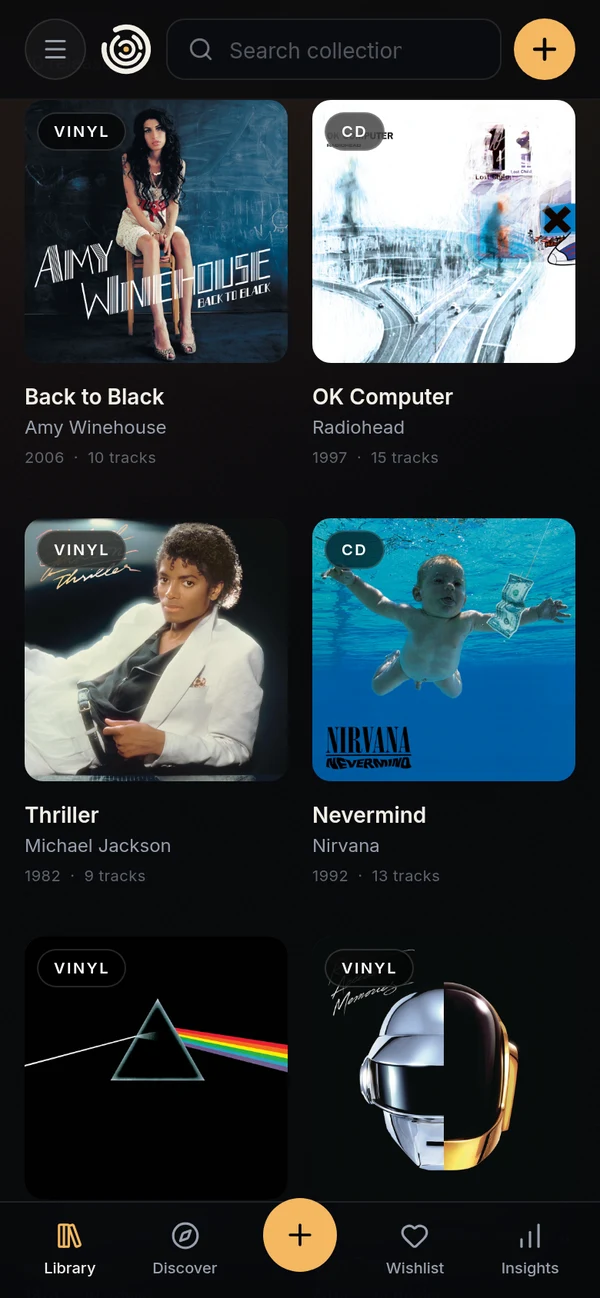
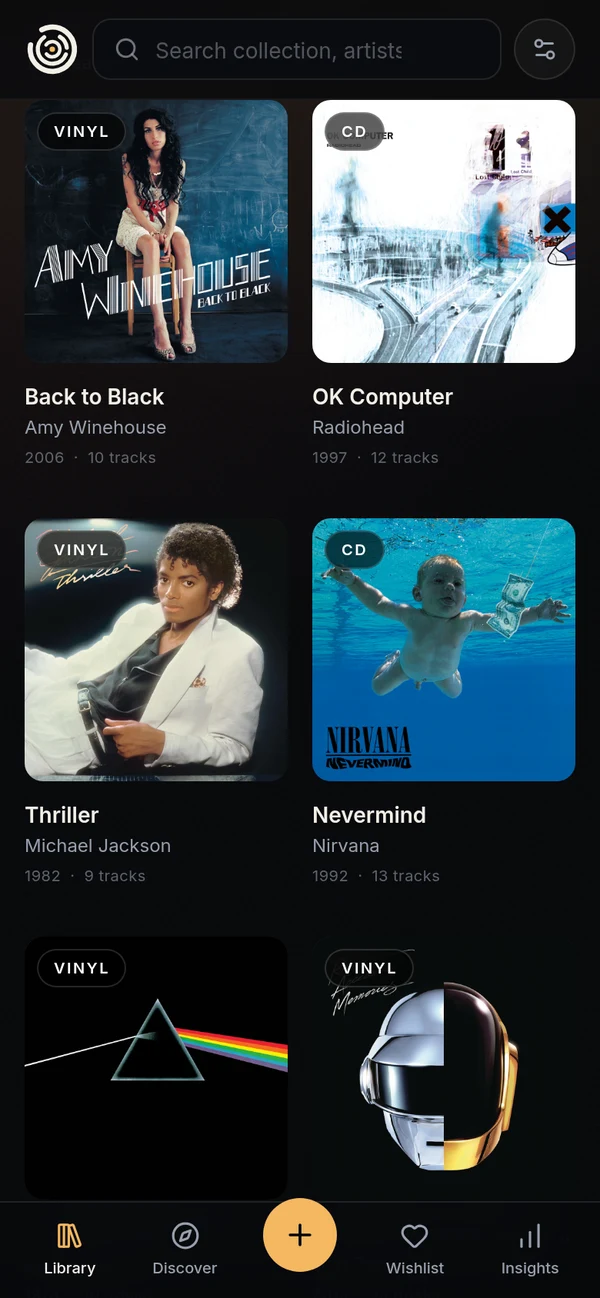
feat(nav): replace mobile menu with header settings shortcut

Changed region(s): [[0.03, 0.0, 0.66, 0.0616], [0.84, 0.0, 0.96, 0.0616]]

diff --git a/src/components/header.tsx b/src/components/header.tsx
@@ -1,152 +1,51 @@
-import { useEffect, useState } from 'react';
 import { Link, useLocation } from 'react-router-dom';
-import {
-  ChartNoAxesColumnIncreasing,
-  Compass,
-  Heart,
-  LibraryBig,
-  Menu,
-  Plus,
-  Settings2,
-  X,
-} from 'lucide-react';
-import type { LucideIcon } from 'lucide-react';
+import { Plus, Settings2 } from 'lucide-react';
 import { cn } from '@/lib/utils';
 import { useApp } from './app-context';
 import { GlobalSearch } from './global-search';
 import { Logo } from './logo';
 
-const PAGE_LINKS: { to: string; label: string; icon: LucideIcon }[] = [
-  { to: '/', label: 'Library', icon: LibraryBig },
-  { to: '/discover', label: 'Discover', icon: Compass },
-  { to: '/wishlist', label: 'Wishlist', icon: Heart },
-  { to: '/stats', label: 'Insights', icon: ChartNoAxesColumnIncreasing },
-  { to: '/settings', label: 'Settings', icon: Settings2 },
-];
-
-function isActive(pathname: string, to: string) {
-  if (to === '/') return pathname === '/' || pathname.startsWith('/releases/');
-  return pathname.startsWith(to);
-}
-
 export function Header() {
   const { openAdd } = useApp();
   const location = useLocation();
-  const [menuOpen, setMenuOpen] = useState(false);
-
-  useEffect(() => {
-    setMenuOpen(false);
-  }, [location.pathname]);
-
-  useEffect(() => {
-    if (!menuOpen) return;
-    const previous = document.body.style.overflow;
-    document.body.style.overflow = 'hidden';
-    function onKeyDown(event: KeyboardEvent) {
-      if (event.key === 'Escape') setMenuOpen(false);
-    }
-    window.addEventListener('keydown', onKeyDown);
-    return () => {
-      document.body.style.overflow = previous;
-      window.removeEventListener('keydown', onKeyDown);
-    };
-  }, [menuOpen]);
+  const settingsActive = location.pathname.startsWith('/settings');
 
   return (
-    <>
-      <header className="sticky top-0 z-30 border-b border-white/[0.06] bg-ink-950/75 backdrop-blur-xl">
-        <div className="flex items-center gap-2 px-4 py-3 sm:gap-3 lg:px-10">
-          <button
-            type="button"
-            onClick={() => setMenuOpen(true)}
-            className="icon-btn h-10 w-10 lg:hidden"
-            aria-label="Open menu"
-            aria-expanded={menuOpen}
-          >
-            <Menu size={18} />
-          </button>
+    <header className="sticky top-0 z-30 border-b border-white/[0.06] bg-ink-950/75 backdrop-blur-xl">
+      <div className="flex items-center gap-2 px-4 py-3 sm:gap-3 lg:px-10">
+        <Link to="/" className="shrink-0 lg:hidden" aria-label="Sleeve home">
+          <Logo compact />
+        </Link>
 
-          <Link to="/" className="shrink-0 lg:hidden" aria-label="Sleeve home">
-            <Logo compact />
-          </Link>
+        <GlobalSearch />
 
-          <GlobalSearch />
-
-          <button
-            type="button"
-            onClick={() => openAdd()}
-            aria-label="Add release"
-            className="btn btn-primary group ml-auto h-10 w-10 shrink-0 gap-0 overflow-hidden px-0 transition-[width] duration-300 hover:w-36 hover:bg-accent focus-visible:w-36"
-          >
-            <Plus
-              strokeWidth={2.5}
-              className="h-[22px] w-[22px] shrink-0 transition-[width,height] duration-300 group-hover:h-4 group-hover:w-4 group-focus-visible:h-4 group-focus-visible:w-4"
-            />
-            <span className="max-w-0 overflow-hidden whitespace-nowrap opacity-0 transition-all duration-300 group-hover:ml-2 group-hover:max-w-28 group-hover:opacity-100 group-focus-visible:ml-2 group-focus-visible:max-w-28 group-focus-visible:opacity-100">
-              Add release
-            </span>
-          </button>
-        </div>
-      </header>
-
-      {menuOpen && (
-        <div className="lg:hidden">
-          <button
-            type="button"
-            className="fixed inset-0 z-40 bg-ink-950/70 backdrop-blur-sm"
-            onClick={() => setMenuOpen(false)}
-            aria-label="Close menu"
+        <button
+          type="button"
+          onClick={() => openAdd()}
+          aria-label="Add release"
+          className="btn btn-primary group ml-auto hidden h-10 w-10 shrink-0 gap-0 overflow-hidden px-0 transition-[width] duration-300 hover:w-36 hover:bg-accent focus-visible:w-36 lg:inline-flex"
+        >
+          <Plus
+            strokeWidth={2.5}
+            className="h-[22px] w-[22px] shrink-0 transition-[width,height] duration-300 group-hover:h-4 group-hover:w-4 group-focus-visible:h-4 group-focus-visible:w-4"
           />
-          <aside className="fixed inset-y-0 left-0 z-50 flex w-72 max-w-[85vw] flex-col border-r border-white/10 bg-ink-900 p-5">
-            <div className="flex items-center justify-between">
-              <Link to="/" aria-label="Sleeve home">
-                <Logo />
-              </Link>
-              <button
-                type="button"
-                onClick={() => setMenuOpen(false)}
-                className="icon-btn h-9 w-9"
-                aria-label="Close menu"
-              >
-                <X size={16} />
-              </button>
-            </div>
+          <span className="max-w-0 overflow-hidden whitespace-nowrap opacity-0 transition-all duration-300 group-hover:ml-2 group-hover:max-w-28 group-hover:opacity-100 group-focus-visible:ml-2 group-focus-visible:max-w-28 group-focus-visible:opacity-100">
+            Add release
+          </span>
+        </button>
 
-            <nav className="mt-8 space-y-1">
-              {PAGE_LINKS.map(({ to, label, icon: Icon }) => {
-                const active = isActive(location.pathname, to);
-                return (
-                  <Link
-                    key={to}
-                    to={to}
-                    className={cn(
-                      'flex items-center gap-3 rounded-xl px-3 py-2.5 text-sm font-medium transition',
-                      active
-                        ? 'bg-white/[0.07] text-cream'
-                        : 'text-muted hover:bg-white/[0.04] hover:text-cream',
-                    )}
-                  >
-                    <Icon size={18} className={active ? 'text-accent' : 'text-muted'} />
-                    {label}
-                  </Link>
-                );
-              })}
-            </nav>
-
-            <button
-              type="button"
-              onClick={() => {
-                setMenuOpen(false);
-                openAdd();
-              }}
-              className="btn btn-primary mt-auto w-full py-2.5 text-sm"
-            >
-              <Plus size={16} />
-              Add release
-            </button>
-          </aside>
-        </div>
-      )}
-    </>
+        <Link
+          to="/settings"
+          aria-label="Settings"
+          aria-current={settingsActive ? 'page' : undefined}
+          className={cn(
+            'icon-btn h-10 w-10 shrink-0 lg:hidden',
+            settingsActive && 'text-accent',
+          )}
+        >
+          <Settings2 size={18} />
+        </Link>
+      </div>
+    </header>
   );
 }

diff --git a/src/components/header.test.tsx b/src/components/header.test.tsx
@@ -225,3 +225,9 @@ test('adds a wishlist hit to the library from the result row', async () => {
   await waitFor(() => expect(createRelease).toHaveBeenCalled());
   expect(deleteWishlistItem).toHaveBeenCalledWith('wish-1');
 });
+
+test('links to settings from the header', () => {
+  renderHeader();
+  const link = screen.getByRole('link', { name: 'Settings' });
+  expect(link.getAttribute('href')).toBe('/settings');
+});
